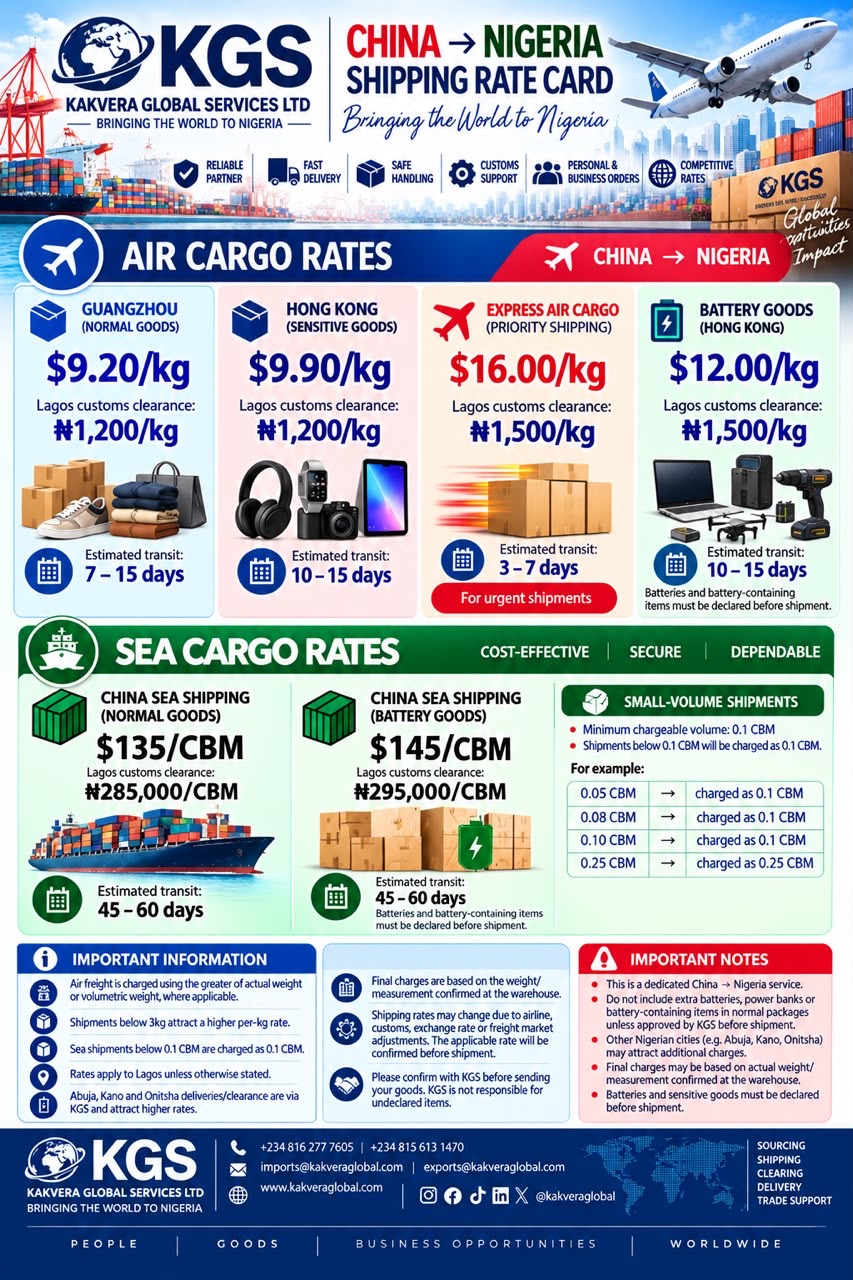
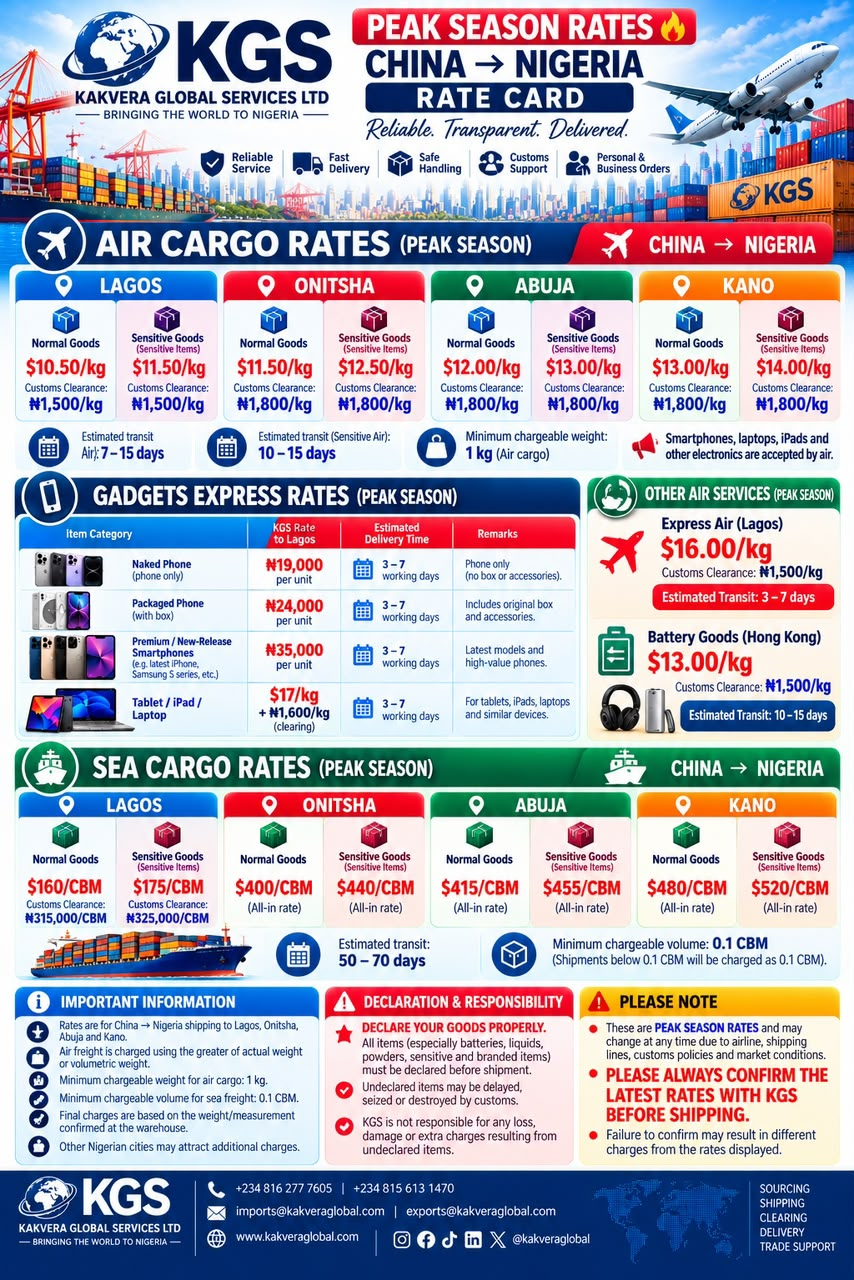
Update China–Nigeria peak season rates from combined card
Refresh typed China and Gadgets Express rates, sea/air destination
pricing, peak-season notices, and the downloadable rate card.

diff --git a/src/pages/ShippingRates.tsx b/src/pages/ShippingRates.tsx
@@ -88,11 +88,11 @@ const ShippingRates = () => {
           <div className="grid grid-cols-1 md:grid-cols-2 gap-4">
             {[
               'Air freight is charged on the greater of actual or volumetric weight where applicable.',
-              'Rates apply to Lagos unless otherwise stated. Abuja, Kano and Onitsha may attract higher rates.',
+              'China → Nigeria rates shown are peak season. Abuja, Kano and Onitsha attract higher destination rates.',
               'Batteries, sensitive goods and restricted items must be declared before shipment.',
               'Final charges are based on weight/measurement confirmed at the warehouse.',
               'Rates may change due to airline, customs, exchange-rate or freight-market adjustments.',
-              'Please confirm with KGS before sending goods to any warehouse.',
+              'Please always confirm the latest rates with KGS before sending goods to any warehouse.',
             ].map((note) => (
               <div key={note} className="flex items-start gap-3 bg-blue-50 rounded-lg p-4">
                 <AlertTriangle className="h-5 w-5 text-blue-700 mt-0.5 flex-shrink-0" />
@@ -258,54 +258,54 @@ const destinationRates: Record<
 > = {
   lagos: {
     label: 'Lagos',
-    note: 'Primary destination · separate freight + clearing',
-    airTransit: '7 – 15 days',
-    airNormal: '$9.20/kg',
-    airSensitive: '$9.90/kg',
-    airClearing: '₦1,200/kg',
-    seaTransit: '45 – 60 days',
+    note: 'Peak season · separate freight + clearing',
+    airTransit: '7 – 15 days (sensitive 10 – 15)',
+    airNormal: '$10.50/kg',
+    airSensitive: '$11.50/kg',
+    airClearing: '₦1,500/kg',
+    seaTransit: '50 – 70 days',
     seaRows: [
-      ['Normal goods', '$135/CBM + ₦285,000/CBM clearing'],
-      ['Battery goods', '$145/CBM + ₦295,000/CBM clearing'],
+      ['Normal goods', '$160/CBM + ₦315,000/CBM clearing'],
+      ['Sensitive goods', '$175/CBM + ₦325,000/CBM clearing'],
     ],
   },
   onitsha: {
     label: 'Onitsha',
-    note: 'Higher destination rate',
-    airTransit: '7 – 15 days',
-    airNormal: '$10.20/kg',
-    airSensitive: '$11.50/kg',
-    airClearing: '₦1,600/kg',
-    seaTransit: '45 – 60 days',
+    note: 'Peak season · higher destination rate',
+    airTransit: '7 – 15 days (sensitive 10 – 15)',
+    airNormal: '$11.50/kg',
+    airSensitive: '$12.50/kg',
+    airClearing: '₦1,800/kg',
+    seaTransit: '50 – 70 days',
     seaRows: [
-      ['Normal goods (all-in)', '$395/CBM'],
-      ['Battery goods', 'Accepted — declare before shipment'],
+      ['Normal goods (all-in)', '$400/CBM'],
+      ['Sensitive goods (all-in)', '$440/CBM'],
     ],
   },
   abuja: {
     label: 'Abuja',
-    note: 'Higher destination rate',
-    airTransit: '7 – 15 days',
-    airNormal: '$10.60/kg',
-    airSensitive: '$11.80/kg',
-    airClearing: '₦1,600/kg',
-    seaTransit: '45 – 60 days',
+    note: 'Peak season · higher destination rate',
+    airTransit: '7 – 15 days (sensitive 10 – 15)',
+    airNormal: '$12.00/kg',
+    airSensitive: '$13.00/kg',
+    airClearing: '₦1,800/kg',
+    seaTransit: '50 – 70 days',
     seaRows: [
-      ['Normal goods (all-in)', '$400/CBM'],
-      ['Battery goods', 'Accepted — declare before shipment'],
+      ['Normal goods (all-in)', '$415/CBM'],
+      ['Sensitive goods (all-in)', '$455/CBM'],
     ],
   },
   kano: {
     label: 'Kano',
-    note: 'Higher destination rate',
-    airTransit: '7 – 15 days',
-    airNormal: '$11.90/kg',
-    airSensitive: '$12.80/kg',
-    airClearing: '₦1,600/kg',
-    seaTransit: '45 – 60 days',
+    note: 'Peak season · higher destination rate',
+    airTransit: '7 – 15 days (sensitive 10 – 15)',
+    airNormal: '$13.00/kg',
+    airSensitive: '$14.00/kg',
+    airClearing: '₦1,800/kg',
+    seaTransit: '50 – 70 days',
     seaRows: [
-      ['Normal goods (all-in)', '$450/CBM'],
-      ['Battery goods', 'Accepted — declare before shipment'],
+      ['Normal goods (all-in)', '$480/CBM'],
+      ['Sensitive goods (all-in)', '$520/CBM'],
     ],
   },
 };
@@ -318,34 +318,28 @@ const ChinaRates = () => {
     <div>
       <RateCardHeader
         title="China → Nigeria Shipping Rates"
-        description="Updated air and sea rates from China, with Lagos service options plus destination rates for Onitsha, Abuja and Kano."
+        description="Peak season air and sea rates from China, with Lagos service options plus destination rates for Onitsha, Abuja and Kano. Always confirm with KGS before shipping."
         downloadHref="/rate-cards/china-nigeria.jpg"
         downloadLabel="Download rate card"
       />
 
-      <div className="mb-8 flex flex-wrap gap-3">
-        <a
-          href="/rate-cards/china-nigeria-destinations.jpg"
-          download
-          className="inline-flex items-center justify-center px-5 py-3 bg-white border border-gray-300 text-gray-800 font-medium rounded-lg hover:bg-gray-50 transition-colors"
-        >
-          <Download className="h-4 w-4 mr-2" />
-          Download destination rates
-        </a>
+      <div className="mb-6 rounded-lg border border-amber-300 bg-amber-50 px-4 py-3 text-sm text-amber-950">
+        <strong>Peak season rates.</strong> Prices may change due to airline, shipping-line, customs or market
+        conditions. Please always confirm the latest rates with KGS before shipping.
       </div>
 
       <div className="mb-4 flex items-center gap-2 text-blue-800 font-semibold">
         <Plane className="h-5 w-5" />
-        Lagos service options (detailed)
+        Lagos air services (peak season)
       </div>
       <RateTable
         headers={['Service', 'Freight', 'Lagos clearance', 'Transit']}
         rows={[
-          ['Guangzhou (normal goods)', '$9.20/kg', '₦1,200/kg', '7 – 15 days'],
-          ['Hong Kong (sensitive goods)', '$9.90/kg', '₦1,200/kg', '10 – 15 days'],
+          ['Normal goods', '$10.50/kg', '₦1,500/kg', '7 – 15 days'],
+          ['Sensitive goods', '$11.50/kg', '₦1,500/kg', '10 – 15 days'],
           [
             <>
-              Express air cargo
+              Express air (Lagos)
               <span className="ml-2 inline-block text-xs font-semibold text-red-700 bg-red-100 px-2 py-0.5 rounded">
                 Urgent
               </span>
@@ -354,26 +348,26 @@ const ChinaRates = () => {
             '₦1,500/kg',
             '3 – 7 days',
           ],
-          ['Battery goods (Hong Kong)', '$12.00/kg', '₦1,500/kg', '10 – 15 days'],
+          ['Battery goods (Hong Kong)', '$13.00/kg', '₦1,500/kg', '10 – 15 days'],
         ]}
       />
 
       <div className="mt-10 mb-4 flex items-center gap-2 text-green-800 font-semibold">
         <Ship className="h-5 w-5" />
-        Lagos sea cargo
+        Lagos sea cargo (peak season)
       </div>
       <RateTable
         headers={['Service', 'Freight', 'Lagos clearance', 'Transit']}
         rows={[
-          ['China sea shipping (normal goods)', '$135/CBM', '₦285,000/CBM', '45 – 60 days'],
-          ['China sea shipping (battery goods)', '$145/CBM', '₦295,000/CBM', '45 – 60 days'],
+          ['Normal goods', '$160/CBM', '₦315,000/CBM', '50 – 70 days'],
+          ['Sensitive goods', '$175/CBM', '₦325,000/CBM', '50 – 70 days'],
         ]}
       />
 
       <div className="mt-12 mb-4">
         <h3 className="text-2xl font-bold text-gray-900 mb-2">Rates by destination</h3>
         <p className="text-gray-600 mb-4">
-          Compare China → Nigeria rates for Lagos, Onitsha, Abuja and Kano. Onitsha, Abuja and Kano attract higher destination rates.
+          Peak season China → Nigeria rates for Lagos, Onitsha, Abuja and Kano. Onitsha, Abuja and Kano attract higher destination rates.
         </p>
         <div className="flex flex-wrap gap-2 mb-6">
           {(Object.keys(destinationRates) as DestinationId[]).map((id) => (
@@ -420,24 +414,27 @@ const ChinaRates = () => {
 
       <div className="grid grid-cols-1 lg:grid-cols-2 gap-6 mt-8">
         <InfoList
-          title="Small-volume sea shipments"
+          title="Important information"
           tone="blue"
           items={[
-            'Minimum chargeable volume: 0.1 CBM.',
-            'Shipments below 0.1 CBM are charged as 0.1 CBM.',
-            'Example: 0.05 CBM or 0.08 CBM → charged as 0.1 CBM.',
-            'Example: 0.25 CBM → charged as 0.25 CBM.',
+            'Rates are for China → Nigeria shipping to Lagos, Onitsha, Abuja and Kano.',
+            'Air freight is charged on the greater of actual or volumetric weight.',
+            'Minimum chargeable weight for air cargo: 1 kg.',
+            'Minimum chargeable volume for sea freight: 0.1 CBM (below 0.1 CBM charged as 0.1 CBM).',
+            'Final charges are based on weight/measurement confirmed at the warehouse.',
+            'Other Nigerian cities may attract additional charges.',
+            'Smartphones, laptops, iPads and other electronics are accepted by air.',
           ]}
         />
         <InfoList
-          title="China route notes"
+          title="Declaration & peak season notes"
           tone="red"
           items={[
-            'Air shipments below 3kg attract a higher per-kg rate.',
-            'Batteries, electronics, liquids, cosmetics and medicines must be declared.',
-            'Do not include extra batteries or power banks in normal packages without approval.',
-            'Abuja, Kano and Onitsha deliveries/clearance may attract higher rates.',
-            'Confirm with KGS before sending goods to the warehouse.',
+            'Declare goods properly — especially batteries, liquids, powders, sensitive and branded items.',
+            'Undeclared items may be delayed, seized or destroyed by customs.',
+            'KGS is not responsible for loss, damage or extra charges from undeclared items.',
+            'These are peak season rates and may change at any time.',
+            'Always confirm the latest rates with KGS before shipping.',
           ]}
         />
       </div>
@@ -449,10 +446,15 @@ const GadgetsRates = () => (
   <div>
     <RateCardHeader
       title="China → Nigeria Gadgets Express"
-      description="Dedicated express service for phones, tablets, iPads and laptops — fast, secure handling from China to Lagos."
-      downloadHref="/rate-cards/china-nigeria-gadgets.jpg"
+      description="Peak season express rates for phones, tablets, iPads and laptops — fast, secure handling from China to Lagos. Always confirm with KGS before shipping."
+      downloadHref="/rate-cards/china-nigeria.jpg"
       downloadLabel="Download rate card"
     />
+
+    <div className="mb-6 rounded-lg border border-amber-300 bg-amber-50 px-4 py-3 text-sm text-amber-950">
+      <strong>Peak season rates.</strong> Included on the combined China → Nigeria rate card. Please confirm
+      with KGS before shipping.
+    </div>
 
     <div className="mb-4 flex items-center gap-2 text-blue-800 font-semibold">
       <Package className="h-5 w-5" />
@@ -461,17 +463,17 @@ const GadgetsRates = () => (
     <RateTable
       headers={['Item category', 'KGS rate to Lagos', 'Delivery', 'Note']}
       rows={[
-        ['Naked phone (phone only)', '₦18,000 / unit', '3 – 7 working days', 'No box or accessories'],
-        ['Packaged phone (with box)', '₦23,000 / unit', '3 – 7 working days', 'Includes original box & accessories'],
+        ['Naked phone (phone only)', '₦19,000 / unit', '3 – 7 working days', 'No box or accessories'],
+        ['Packaged phone (with box)', '₦24,000 / unit', '3 – 7 working days', 'Includes original box & accessories'],
         [
           'Premium / new-release smartphones',
-          '₦33,000 / unit',
+          '₦35,000 / unit',
           '3 – 7 working days',
           'Latest models & high-value phones',
         ],
         [
           'Tablet / iPad / Laptop',
-          '$16/kg + ₦1,600/kg clearing',
+          '$17/kg + ₦1,600/kg clearing',
           '3 – 7 working days',
           'Tablets, iPads, laptops & similar devices',
         ],

diff --git a/PROJECT_NOTES.md b/PROJECT_NOTES.md
@@ -6,11 +6,13 @@ Ongoing notes for the Kakvera website so later sessions can pick up quickly.
 **Repo:** `Kakveraglobal/Kakveraglobal-web` (only — do not mix with other GitHub projects)  
 **Live site:** https://www.kakveraglobal.com (GitHub Pages)  
 **Stack:** Vite + React + TypeScript + Tailwind  
-**Last updated:** 1 Nov 2026 (paused — shop concept reviewed; waiting on next small update)
+**Last updated:** 1 Nov 2026 (China peak-season rates)
 
 ## Resume here (1 Nov 2026)
 
-**Paused on purpose.** User asked to pause the new Shop/Source/Ship concept before implementation, do a smaller update first, then return to the concept.
+**Just done:** China → Nigeria + Gadgets Express updated to **peak season** rates from combined rate card (`public/rate-cards/china-nigeria.jpg`).
+
+**Still paused:** Shop/Source/Ship/Cart concept (mockups reviewed; implement after user returns to it).
 
 ### In flight (do not forget)
 
@@ -63,6 +65,7 @@ Ongoing notes for the Kakvera website so later sessions can pick up quickly.
 - **Hidden partners** — Removed NBC Sky Logistics [PR #16](https://github.com/Kakveraglobal/Kakveraglobal-web/pull/16) and Skyjet [PR #17](https://github.com/Kakveraglobal/Kakveraglobal-web/pull/17) from public copy. Destination notes say “higher destination rate” only.
 - **China / Gadgets rate cards restored** — Partner-safe downloads live: `china-nigeria.jpg`, `china-nigeria-destinations.jpg`, `china-nigeria-gadgets.jpg`. [PR #19](https://github.com/Kakveraglobal/Kakveraglobal-web/pull/19)
 - **PWA foundation** — Installable Progressive Web App: web manifest, app icons, service worker (offline shell + cached assets), install/update prompts. [PR #21](https://github.com/Kakveraglobal/Kakveraglobal-web/pull/21)
+- **China peak-season rates** — Combined China → Nigeria rate card (air by city, Gadgets Express, sea by city); typed rates + download updated.
 
 ## Company / contact (current)
 
@@ -100,7 +103,6 @@ Sheet columns (A–S): KGS Shipment ID, Date Booked, Customer Name, Phone, Route
 
 ## Open / next
 
-- **Next:** user will specify a smaller update first (then return to Shop concept)
 - **Shop / Source / Ship / Cart concept** — paused; mockups reviewed; await implementation brief
 - **PWA mobile install** — [PR #22](https://github.com/Kakveraglobal/Kakveraglobal-web/pull/22) draft; ship when user approves
 - **Partner form** — placeholder on Contact; waiting for real form to embed
